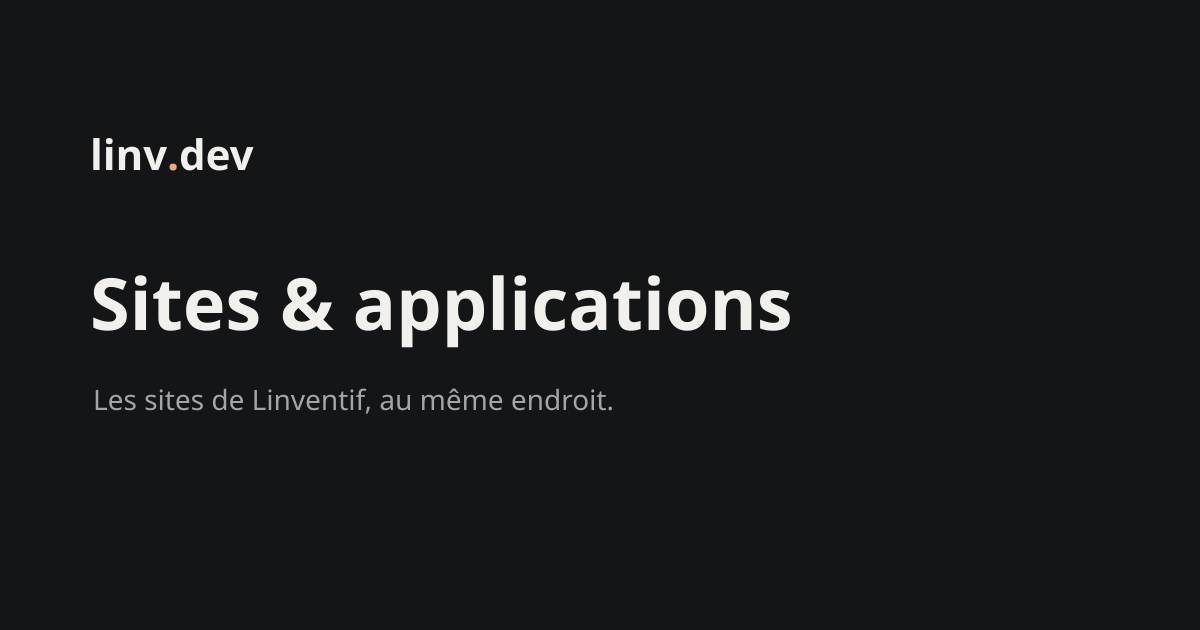
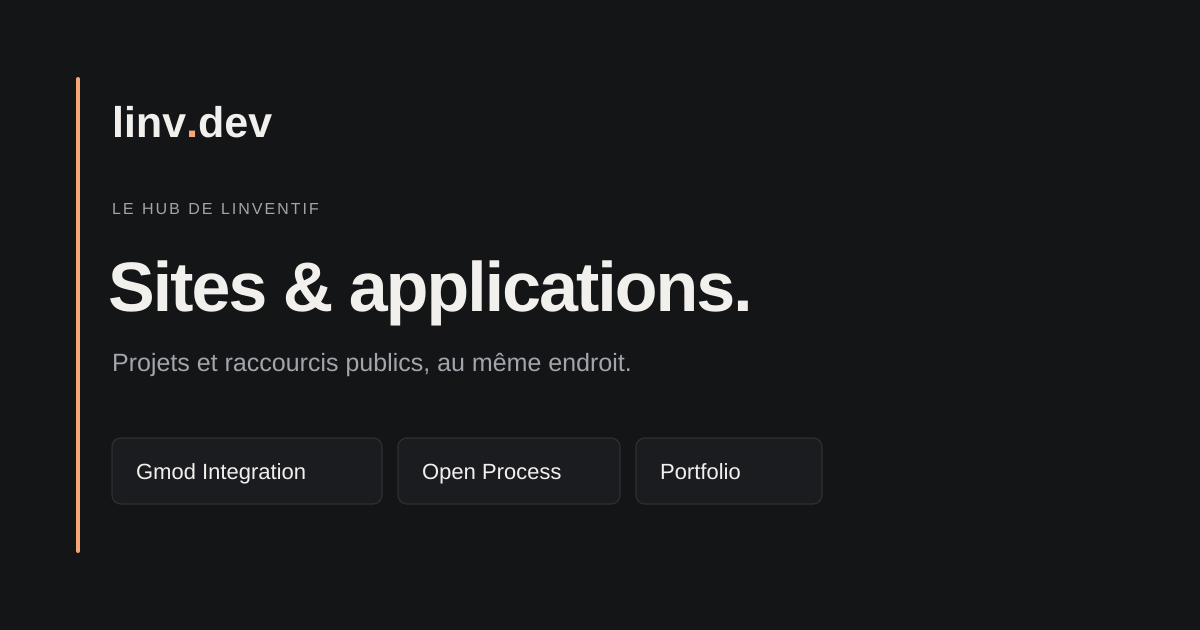
Fix social sharing preview and public URL

diff --git a/README.md b/README.md
@@ -54,6 +54,12 @@ et `package-lock.json`, sur la branche `main` utilisée par Cloudflare.
 - Répertoire de sortie : `dist`.
 - Version Node.js : `24.20.0`, définie dans `.node-version`.
 
+L’adresse publique utilisée pour les liens canoniques et les aperçus de partage
+est `https://linv-dev.pages.dev`. Après activation du domaine personnalisé,
+définir `SITE_URL=https://linv.dev` dans l’environnement de compilation Cloudflare
+et redéployer. L’image de partage PNG (`public/social.png`, 1200 × 630) est servie
+sur cette même adresse et référencée dans les métadonnées Open Graph et Twitter.
+
 Cloudflare installe automatiquement les dépendances avant la compilation. Le site
 est statique : aucun adaptateur Cloudflare ni fichier Wrangler n’est nécessaire.
 Un déploiement qui récupère encore le commit `1a1ede5` utilise l’ancien portfolio,
